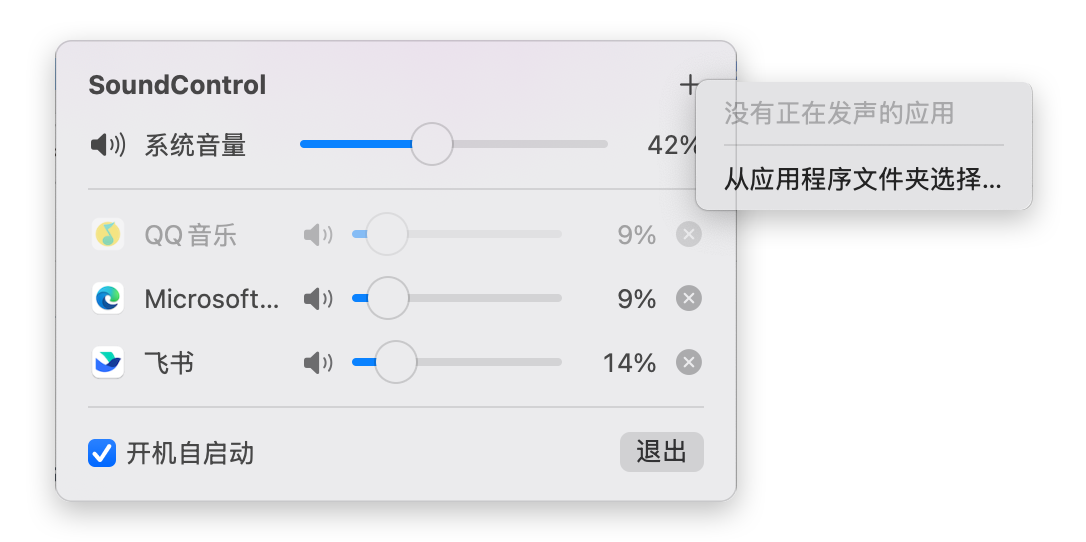
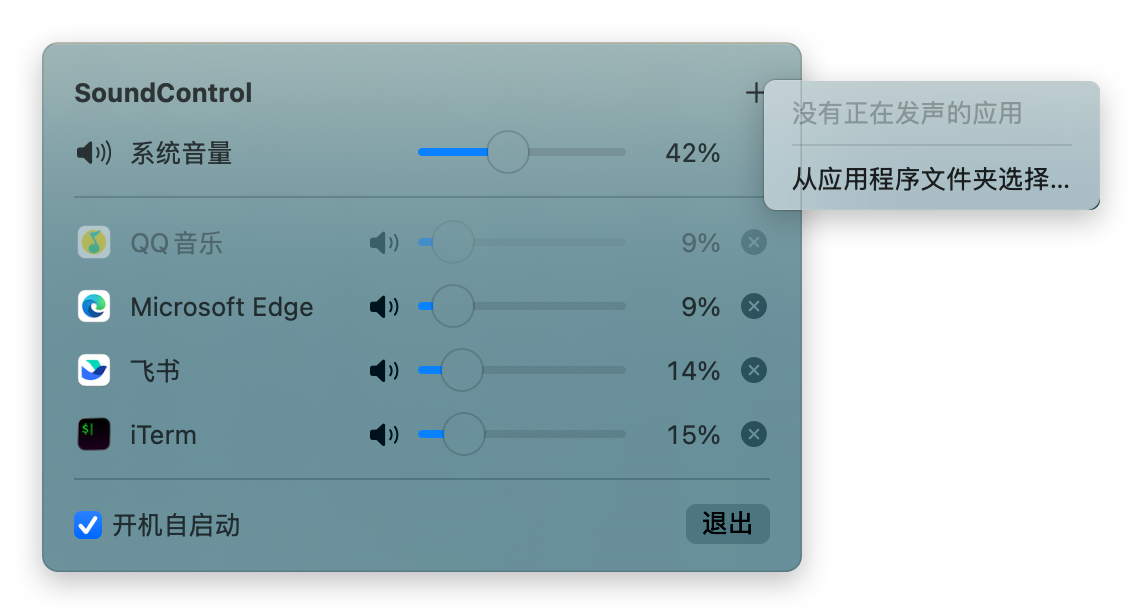
支持通用二进制和 DMG 打包，README 加入下载安装说明并更新截图
- build-app.sh 分别编译 arm64 与 x86_64 后用 lipo 合并
- 新增 make-dmg.sh，生成带"应用程序"快捷方式的 DMG
- README 增加从 Releases 下载安装及 Gatekeeper 放行说明
- 更新面板截图为加宽后的版本

diff --git a/README.md b/README.md
@@ -31,9 +31,22 @@ macOS has a single system volume for everything. SoundControl lets you turn Chro
 ## Requirements
 
 - macOS 14.2 or later (uses Core Audio Process Taps)
-- Xcode Command Line Tools (`xcode-select --install`). **Full Xcode is not required.**
+- Apple silicon or Intel Mac
 
-## Installation
+## Download
+
+Download the latest `SoundControl-x.y.z.dmg` from [Releases](https://github.com/luozhiyun993/SoundControl/releases/latest), open it, and drag **SoundControl** into **Applications**.
+
+SoundControl is self-signed and not notarized by Apple, so the first launch is blocked with a message that the developer can't be verified. To allow it, either:
+
+- Open **System Settings → Privacy & Security**, scroll down, and click **Open Anyway** next to SoundControl, or
+- Run `xattr -dr com.apple.quarantine /Applications/SoundControl.app` in Terminal
+
+The first time an app is taken over, macOS asks for **System Audio Recording** permission. Allow it.
+
+## Build from source
+
+Requires Xcode Command Line Tools (`xcode-select --install`). **Full Xcode is not required.**
 
 ```bash
 git clone https://github.com/luozhiyun993/SoundControl.git
@@ -78,6 +91,7 @@ Because the audio still goes through the output device, app volume can only be a
 
 ```bash
 ./scripts/build-app.sh && open build/SoundControl.app   # build and bundle only, don't install
+./scripts/make-dmg.sh                                     # package build/SoundControl-<version>.dmg
 swift scripts/make-icon.swift Resources/AppIcon.png       # regenerate the app icon
 ```
 

diff --git a/README.zh-CN.md b/README.zh-CN.md
@@ -31,9 +31,22 @@ macOS 只有一个统一的系统音量。SoundControl 让你把 Chrome 调到 3
 ## 系统要求
 
 - macOS 14.2 或更高版本（依赖 Core Audio Process Tap）
-- Xcode Command Line Tools（`xcode-select --install`），**不需要安装 Xcode**
+- Apple 芯片或 Intel 芯片的 Mac
 
-## 安装
+## 下载安装
+
+从 [Releases](https://github.com/luozhiyun993/SoundControl/releases/latest) 下载最新的 `SoundControl-x.y.z.dmg`，打开后把 **SoundControl** 拖进 **应用程序** 文件夹。
+
+SoundControl 使用自签名证书，没有经过 Apple 公证，所以第一次打开会提示"无法验证开发者"。放行方法二选一：
+
+- 打开 **系统设置 → 隐私与安全性**，滚动到底部，点击 SoundControl 旁边的 **仍要打开**
+- 或在终端运行 `xattr -dr com.apple.quarantine /Applications/SoundControl.app`
+
+第一次接管应用时，系统会请求 **系统音频录制** 权限，请允许。
+
+## 从源码编译
+
+需要 Xcode Command Line Tools（`xcode-select --install`），**不需要安装 Xcode**。
 
 ```bash
 git clone https://github.com/luozhiyun993/SoundControl.git
@@ -78,6 +91,7 @@ SoundControl 使用 macOS 14.2 引入的 [Core Audio Process Tap](https://develo
 
 ```bash
 ./scripts/build-app.sh && open build/SoundControl.app   # 只编译打包，不安装
+./scripts/make-dmg.sh                                     # 打包 build/SoundControl-<版本>.dmg
 swift scripts/make-icon.swift Resources/AppIcon.png       # 重新生成图标
 ```
 
